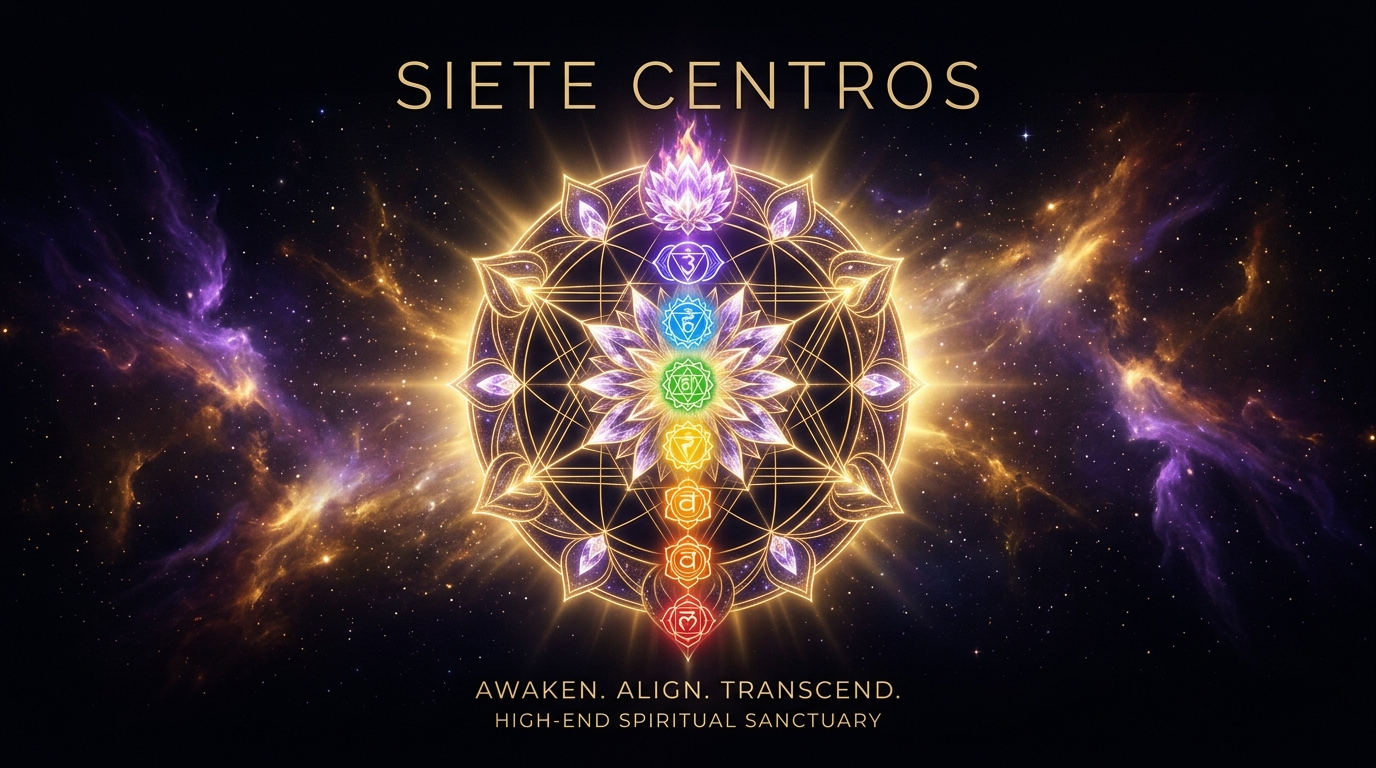
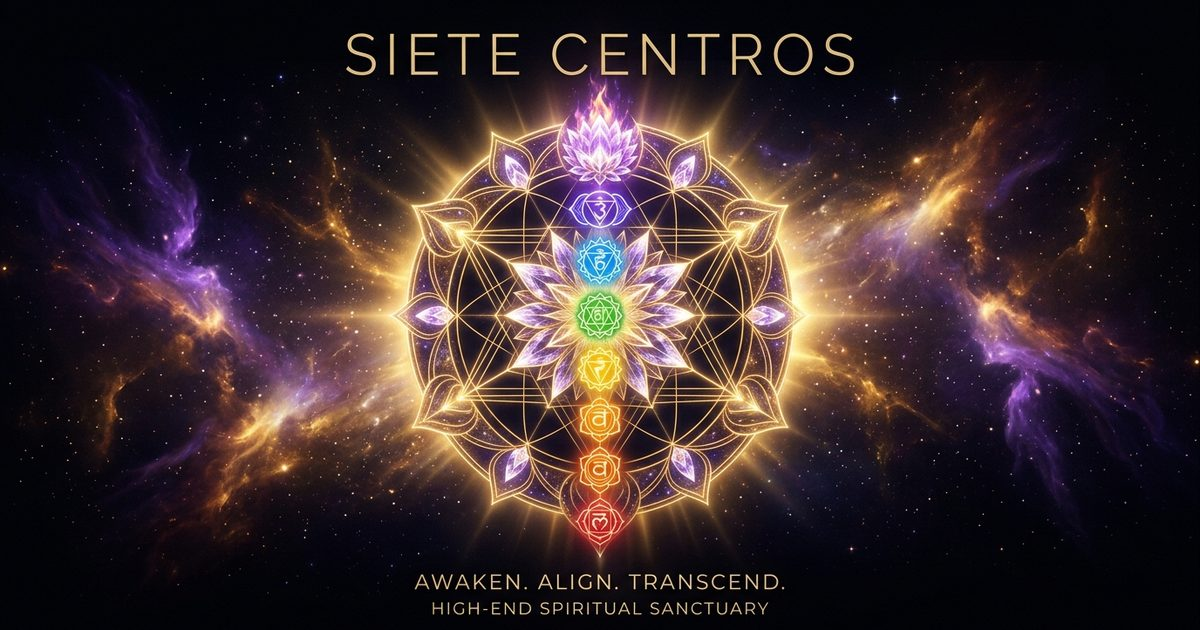
fix(og): optimize og-image to 132KB for WhatsApp crawler and add itemprop, image_src with ?v=2 cache buster

diff --git a/docs/retiros.html b/docs/retiros.html
@@ -6,13 +6,19 @@
   <title>Retiros de Inmersión & Conciencia 2026 — SIETE CENTROS</title>
   <meta name="description" content="Inmersiones de retiro de alta vibración en la naturaleza guiadas por Sofía. Tepoztlán, Valle de Bravo y Riviera Maya. Cupo limitado a 12 participantes.">
 
+  <!-- Microdata Fallback for WhatsApp & Google -->
+  <meta itemprop="name" content="Retiros de Inmersión & Silencio 2026 — SIETE CENTROS">
+  <meta itemprop="description" content="Inmersiones de varios días en reservas sagradas de la naturaleza. Ceremonias de cacao, silencio contemplativo, kriya matutino y breathwork somático.">
+  <meta itemprop="image" content="https://arcano3ai.github.io/Siete-Centros/images/og-siete-centros.jpg?v=2">
+  <link rel="image_src" href="https://arcano3ai.github.io/Siete-Centros/images/og-siete-centros.jpg?v=2">
+
   <!-- Open Graph / WhatsApp / Facebook / LinkedIn Card -->
   <meta property="og:type" content="website">
   <meta property="og:url" content="https://arcano3ai.github.io/Siete-Centros/retiros.html">
   <meta property="og:title" content="Retiros de Inmersión & Silencio 2026 — SIETE CENTROS">
   <meta property="og:description" content="Inmersiones de varios días en reservas sagradas de la naturaleza. Ceremonias de cacao, silencio contemplativo, kriya matutino y breathwork somático.">
-  <meta property="og:image" content="https://arcano3ai.github.io/Siete-Centros/images/og-siete-centros.jpg">
-  <meta property="og:image:secure_url" content="https://arcano3ai.github.io/Siete-Centros/images/og-siete-centros.jpg">
+  <meta property="og:image" content="https://arcano3ai.github.io/Siete-Centros/images/og-siete-centros.jpg?v=2">
+  <meta property="og:image:secure_url" content="https://arcano3ai.github.io/Siete-Centros/images/og-siete-centros.jpg?v=2">
   <meta property="og:image:type" content="image/jpeg">
   <meta property="og:image:width" content="1200">
   <meta property="og:image:height" content="630">
@@ -23,7 +29,7 @@
   <meta name="twitter:card" content="summary_large_image">
   <meta name="twitter:title" content="Retiros de Inmersión & Silencio 2026 — SIETE CENTROS">
   <meta name="twitter:description" content="Inmersiones de varios días en reservas sagradas de la naturaleza. Ceremonias de cacao, silencio y breathwork.">
-  <meta name="twitter:image" content="https://arcano3ai.github.io/Siete-Centros/images/og-siete-centros.jpg">
+  <meta name="twitter:image" content="https://arcano3ai.github.io/Siete-Centros/images/og-siete-centros.jpg?v=2">
 
   <!-- Favicon -->
   <link rel="icon" type="image/png" href="./assets/logo_siete_centros_luxury-CsJJWzyy.png">

diff --git a/retiros.html b/retiros.html
@@ -6,13 +6,19 @@
   <title>Retiros de Inmersión & Conciencia 2026 — SIETE CENTROS</title>
   <meta name="description" content="Inmersiones de retiro de alta vibración en la naturaleza guiadas por Sofía. Tepoztlán, Valle de Bravo y Riviera Maya. Cupo limitado a 12 participantes.">
 
+  <!-- Microdata Fallback for WhatsApp & Google -->
+  <meta itemprop="name" content="Retiros de Inmersión & Silencio 2026 — SIETE CENTROS">
+  <meta itemprop="description" content="Inmersiones de varios días en reservas sagradas de la naturaleza. Ceremonias de cacao, silencio contemplativo, kriya matutino y breathwork somático.">
+  <meta itemprop="image" content="https://arcano3ai.github.io/Siete-Centros/images/og-siete-centros.jpg?v=2">
+  <link rel="image_src" href="https://arcano3ai.github.io/Siete-Centros/images/og-siete-centros.jpg?v=2">
+
   <!-- Open Graph / WhatsApp / Facebook / LinkedIn Card -->
   <meta property="og:type" content="website">
   <meta property="og:url" content="https://arcano3ai.github.io/Siete-Centros/retiros.html">
   <meta property="og:title" content="Retiros de Inmersión & Silencio 2026 — SIETE CENTROS">
   <meta property="og:description" content="Inmersiones de varios días en reservas sagradas de la naturaleza. Ceremonias de cacao, silencio contemplativo, kriya matutino y breathwork somático.">
-  <meta property="og:image" content="https://arcano3ai.github.io/Siete-Centros/images/og-siete-centros.jpg">
-  <meta property="og:image:secure_url" content="https://arcano3ai.github.io/Siete-Centros/images/og-siete-centros.jpg">
+  <meta property="og:image" content="https://arcano3ai.github.io/Siete-Centros/images/og-siete-centros.jpg?v=2">
+  <meta property="og:image:secure_url" content="https://arcano3ai.github.io/Siete-Centros/images/og-siete-centros.jpg?v=2">
   <meta property="og:image:type" content="image/jpeg">
   <meta property="og:image:width" content="1200">
   <meta property="og:image:height" content="630">
@@ -23,7 +29,7 @@
   <meta name="twitter:card" content="summary_large_image">
   <meta name="twitter:title" content="Retiros de Inmersión & Silencio 2026 — SIETE CENTROS">
   <meta name="twitter:description" content="Inmersiones de varios días en reservas sagradas de la naturaleza. Ceremonias de cacao, silencio y breathwork.">
-  <meta name="twitter:image" content="https://arcano3ai.github.io/Siete-Centros/images/og-siete-centros.jpg">
+  <meta name="twitter:image" content="https://arcano3ai.github.io/Siete-Centros/images/og-siete-centros.jpg?v=2">
 
   <!-- Favicon -->
   <link rel="icon" type="image/png" href="./assets/logo_siete_centros_luxury-CsJJWzyy.png">

diff --git a/src/source-pages/retiros.html b/src/source-pages/retiros.html
@@ -6,13 +6,19 @@
   <title>Retiros de Inmersión & Conciencia 2026 — SIETE CENTROS</title>
   <meta name="description" content="Inmersiones de retiro de alta vibración en la naturaleza guiadas por Sofía. Tepoztlán, Valle de Bravo y Riviera Maya. Cupo limitado a 12 participantes.">
 
+  <!-- Microdata Fallback for WhatsApp & Google -->
+  <meta itemprop="name" content="Retiros de Inmersión & Silencio 2026 — SIETE CENTROS">
+  <meta itemprop="description" content="Inmersiones de varios días en reservas sagradas de la naturaleza. Ceremonias de cacao, silencio contemplativo, kriya matutino y breathwork somático.">
+  <meta itemprop="image" content="https://arcano3ai.github.io/Siete-Centros/images/og-siete-centros.jpg?v=2">
+  <link rel="image_src" href="https://arcano3ai.github.io/Siete-Centros/images/og-siete-centros.jpg?v=2">
+
   <!-- Open Graph / WhatsApp / Facebook / LinkedIn Card -->
   <meta property="og:type" content="website">
   <meta property="og:url" content="https://arcano3ai.github.io/Siete-Centros/retiros.html">
   <meta property="og:title" content="Retiros de Inmersión & Silencio 2026 — SIETE CENTROS">
   <meta property="og:description" content="Inmersiones de varios días en reservas sagradas de la naturaleza. Ceremonias de cacao, silencio contemplativo, kriya matutino y breathwork somático.">
-  <meta property="og:image" content="https://arcano3ai.github.io/Siete-Centros/images/og-siete-centros.jpg">
-  <meta property="og:image:secure_url" content="https://arcano3ai.github.io/Siete-Centros/images/og-siete-centros.jpg">
+  <meta property="og:image" content="https://arcano3ai.github.io/Siete-Centros/images/og-siete-centros.jpg?v=2">
+  <meta property="og:image:secure_url" content="https://arcano3ai.github.io/Siete-Centros/images/og-siete-centros.jpg?v=2">
   <meta property="og:image:type" content="image/jpeg">
   <meta property="og:image:width" content="1200">
   <meta property="og:image:height" content="630">
@@ -23,7 +29,7 @@
   <meta name="twitter:card" content="summary_large_image">
   <meta name="twitter:title" content="Retiros de Inmersión & Silencio 2026 — SIETE CENTROS">
   <meta name="twitter:description" content="Inmersiones de varios días en reservas sagradas de la naturaleza. Ceremonias de cacao, silencio y breathwork.">
-  <meta name="twitter:image" content="https://arcano3ai.github.io/Siete-Centros/images/og-siete-centros.jpg">
+  <meta name="twitter:image" content="https://arcano3ai.github.io/Siete-Centros/images/og-siete-centros.jpg?v=2">
 
   <!-- Favicon -->
   <link rel="icon" type="image/png" href="./images/logo_siete_centros_luxury.png">

diff --git a/docs/index.html b/docs/index.html
@@ -8,13 +8,19 @@
   <meta name="keywords" content="siete centros, chakras, tantra, kriya, breathwork, meditación, presencia somática, Sofía terapeuta">
   <meta name="author" content="SIETE CENTROS">
 
+  <!-- Microdata Fallback for WhatsApp & Google -->
+  <meta itemprop="name" content="SIETE CENTROS — Escuela de Conciencia & Experiencias Holísticas">
+  <meta itemprop="description" content="Un viaje vertical hacia tu interior a través de los siete centros de conciencia. Tantra, kriya yoga, breathwork, presencia somática y retiros sagrados.">
+  <meta itemprop="image" content="https://arcano3ai.github.io/Siete-Centros/images/og-siete-centros.jpg?v=2">
+  <link rel="image_src" href="https://arcano3ai.github.io/Siete-Centros/images/og-siete-centros.jpg?v=2">
+
   <!-- Open Graph / WhatsApp / Facebook / LinkedIn Card -->
   <meta property="og:type" content="website">
   <meta property="og:url" content="https://arcano3ai.github.io/Siete-Centros/">
   <meta property="og:title" content="SIETE CENTROS — Escuela de Conciencia & Experiencias Holísticas">
   <meta property="og:description" content="Un viaje vertical hacia tu interior a través de los siete centros de conciencia. Tantra, kriya yoga, breathwork, presencia somática y retiros sagrados.">
-  <meta property="og:image" content="https://arcano3ai.github.io/Siete-Centros/images/og-siete-centros.jpg">
-  <meta property="og:image:secure_url" content="https://arcano3ai.github.io/Siete-Centros/images/og-siete-centros.jpg">
+  <meta property="og:image" content="https://arcano3ai.github.io/Siete-Centros/images/og-siete-centros.jpg?v=2">
+  <meta property="og:image:secure_url" content="https://arcano3ai.github.io/Siete-Centros/images/og-siete-centros.jpg?v=2">
   <meta property="og:image:type" content="image/jpeg">
   <meta property="og:image:width" content="1200">
   <meta property="og:image:height" content="630">
@@ -25,7 +31,7 @@
   <meta name="twitter:card" content="summary_large_image">
   <meta name="twitter:title" content="SIETE CENTROS — Escuela de Conciencia & Experiencias Holísticas">
   <meta name="twitter:description" content="Un viaje vertical hacia tu interior a través de los siete centros de conciencia. Tantra, kriya yoga, breathwork y retiros sagrados.">
-  <meta name="twitter:image" content="https://arcano3ai.github.io/Siete-Centros/images/og-siete-centros.jpg">
+  <meta name="twitter:image" content="https://arcano3ai.github.io/Siete-Centros/images/og-siete-centros.jpg?v=2">
 
   <!-- Favicon -->
   <link rel="icon" type="image/png" href="./assets/logo_siete_centros_luxury-CsJJWzyy.png">

diff --git a/index.html b/index.html
@@ -8,13 +8,19 @@
   <meta name="keywords" content="siete centros, chakras, tantra, kriya, breathwork, meditación, presencia somática, Sofía terapeuta">
   <meta name="author" content="SIETE CENTROS">
 
+  <!-- Microdata Fallback for WhatsApp & Google -->
+  <meta itemprop="name" content="SIETE CENTROS — Escuela de Conciencia & Experiencias Holísticas">
+  <meta itemprop="description" content="Un viaje vertical hacia tu interior a través de los siete centros de conciencia. Tantra, kriya yoga, breathwork, presencia somática y retiros sagrados.">
+  <meta itemprop="image" content="https://arcano3ai.github.io/Siete-Centros/images/og-siete-centros.jpg?v=2">
+  <link rel="image_src" href="https://arcano3ai.github.io/Siete-Centros/images/og-siete-centros.jpg?v=2">
+
   <!-- Open Graph / WhatsApp / Facebook / LinkedIn Card -->
   <meta property="og:type" content="website">
   <meta property="og:url" content="https://arcano3ai.github.io/Siete-Centros/">
   <meta property="og:title" content="SIETE CENTROS — Escuela de Conciencia & Experiencias Holísticas">
   <meta property="og:description" content="Un viaje vertical hacia tu interior a través de los siete centros de conciencia. Tantra, kriya yoga, breathwork, presencia somática y retiros sagrados.">
-  <meta property="og:image" content="https://arcano3ai.github.io/Siete-Centros/images/og-siete-centros.jpg">
-  <meta property="og:image:secure_url" content="https://arcano3ai.github.io/Siete-Centros/images/og-siete-centros.jpg">
+  <meta property="og:image" content="https://arcano3ai.github.io/Siete-Centros/images/og-siete-centros.jpg?v=2">
+  <meta property="og:image:secure_url" content="https://arcano3ai.github.io/Siete-Centros/images/og-siete-centros.jpg?v=2">
   <meta property="og:image:type" content="image/jpeg">
   <meta property="og:image:width" content="1200">
   <meta property="og:image:height" content="630">
@@ -25,7 +31,7 @@
   <meta name="twitter:card" content="summary_large_image">
   <meta name="twitter:title" content="SIETE CENTROS — Escuela de Conciencia & Experiencias Holísticas">
   <meta name="twitter:description" content="Un viaje vertical hacia tu interior a través de los siete centros de conciencia. Tantra, kriya yoga, breathwork y retiros sagrados.">
-  <meta name="twitter:image" content="https://arcano3ai.github.io/Siete-Centros/images/og-siete-centros.jpg">
+  <meta name="twitter:image" content="https://arcano3ai.github.io/Siete-Centros/images/og-siete-centros.jpg?v=2">
 
   <!-- Favicon -->
   <link rel="icon" type="image/png" href="./assets/logo_siete_centros_luxury-CsJJWzyy.png">

diff --git a/breathwork.html b/breathwork.html
@@ -6,13 +6,19 @@
   <title>Breathwork & Coherencia Cardíaca — SIETE CENTROS</title>
   <meta name="description" content="Inmersión somática en Breathwork guiado por Sofía. Calibra tu frecuencia a 0.1 Hz, disuelve el cortisol y accede a estados expandidos de conciencia.">
 
+  <!-- Microdata Fallback for WhatsApp & Google -->
+  <meta itemprop="name" content="Breathwork & Coherencia Cardíaca — SIETE CENTROS">
+  <meta itemprop="description" content="Inmersión somática en Breathwork guiado por Sofía. Calibra tu frecuencia a 0.1 Hz, disuelve el cortisol y accede a estados expandidos de conciencia.">
+  <meta itemprop="image" content="https://arcano3ai.github.io/Siete-Centros/images/og-siete-centros.jpg?v=2">
+  <link rel="image_src" href="https://arcano3ai.github.io/Siete-Centros/images/og-siete-centros.jpg?v=2">
+
   <!-- Open Graph / WhatsApp / Facebook / LinkedIn Card -->
   <meta property="og:type" content="website">
   <meta property="og:url" content="https://arcano3ai.github.io/Siete-Centros/breathwork.html">
   <meta property="og:title" content="Breathwork & Coherencia Cardíaca — SIETE CENTROS">
   <meta property="og:description" content="Inmersión somática en Breathwork guiado por Sofía. Calibra tu frecuencia a 0.1 Hz, disuelve el cortisol y accede a estados expandidos de conciencia.">
-  <meta property="og:image" content="https://arcano3ai.github.io/Siete-Centros/images/og-siete-centros.jpg">
-  <meta property="og:image:secure_url" content="https://arcano3ai.github.io/Siete-Centros/images/og-siete-centros.jpg">
+  <meta property="og:image" content="https://arcano3ai.github.io/Siete-Centros/images/og-siete-centros.jpg?v=2">
+  <meta property="og:image:secure_url" content="https://arcano3ai.github.io/Siete-Centros/images/og-siete-centros.jpg?v=2">
   <meta property="og:image:type" content="image/jpeg">
   <meta property="og:image:width" content="1200">
   <meta property="og:image:height" content="630">
@@ -23,7 +29,7 @@
   <meta name="twitter:card" content="summary_large_image">
   <meta name="twitter:title" content="Breathwork & Coherencia Cardíaca — SIETE CENTROS">
   <meta name="twitter:description" content="Inmersión somática en Breathwork guiado por Sofía. Calibra tu frecuencia a 0.1 Hz.">
-  <meta name="twitter:image" content="https://arcano3ai.github.io/Siete-Centros/images/og-siete-centros.jpg">
+  <meta name="twitter:image" content="https://arcano3ai.github.io/Siete-Centros/images/og-siete-centros.jpg?v=2">
 
   <!-- Favicon -->
   <link rel="icon" type="image/png" href="./assets/logo_siete_centros_luxury-CsJJWzyy.png">

diff --git a/docs/breathwork.html b/docs/breathwork.html
@@ -6,13 +6,19 @@
   <title>Breathwork & Coherencia Cardíaca — SIETE CENTROS</title>
   <meta name="description" content="Inmersión somática en Breathwork guiado por Sofía. Calibra tu frecuencia a 0.1 Hz, disuelve el cortisol y accede a estados expandidos de conciencia.">
 
+  <!-- Microdata Fallback for WhatsApp & Google -->
+  <meta itemprop="name" content="Breathwork & Coherencia Cardíaca — SIETE CENTROS">
+  <meta itemprop="description" content="Inmersión somática en Breathwork guiado por Sofía. Calibra tu frecuencia a 0.1 Hz, disuelve el cortisol y accede a estados expandidos de conciencia.">
+  <meta itemprop="image" content="https://arcano3ai.github.io/Siete-Centros/images/og-siete-centros.jpg?v=2">
+  <link rel="image_src" href="https://arcano3ai.github.io/Siete-Centros/images/og-siete-centros.jpg?v=2">
+
   <!-- Open Graph / WhatsApp / Facebook / LinkedIn Card -->
   <meta property="og:type" content="website">
   <meta property="og:url" content="https://arcano3ai.github.io/Siete-Centros/breathwork.html">
   <meta property="og:title" content="Breathwork & Coherencia Cardíaca — SIETE CENTROS">
   <meta property="og:description" content="Inmersión somática en Breathwork guiado por Sofía. Calibra tu frecuencia a 0.1 Hz, disuelve el cortisol y accede a estados expandidos de conciencia.">
-  <meta property="og:image" content="https://arcano3ai.github.io/Siete-Centros/images/og-siete-centros.jpg">
-  <meta property="og:image:secure_url" content="https://arcano3ai.github.io/Siete-Centros/images/og-siete-centros.jpg">
+  <meta property="og:image" content="https://arcano3ai.github.io/Siete-Centros/images/og-siete-centros.jpg?v=2">
+  <meta property="og:image:secure_url" content="https://arcano3ai.github.io/Siete-Centros/images/og-siete-centros.jpg?v=2">
   <meta property="og:image:type" content="image/jpeg">
   <meta property="og:image:width" content="1200">
   <meta property="og:image:height" content="630">
@@ -23,7 +29,7 @@
   <meta name="twitter:card" content="summary_large_image">
   <meta name="twitter:title" content="Breathwork & Coherencia Cardíaca — SIETE CENTROS">
   <meta name="twitter:description" content="Inmersión somática en Breathwork guiado por Sofía. Calibra tu frecuencia a 0.1 Hz.">
-  <meta name="twitter:image" content="https://arcano3ai.github.io/Siete-Centros/images/og-siete-centros.jpg">
+  <meta name="twitter:image" content="https://arcano3ai.github.io/Siete-Centros/images/og-siete-centros.jpg?v=2">
 
   <!-- Favicon -->
   <link rel="icon" type="image/png" href="./assets/logo_siete_centros_luxury-CsJJWzyy.png">

diff --git a/src/source-pages/index.html b/src/source-pages/index.html
@@ -8,13 +8,19 @@
   <meta name="keywords" content="siete centros, chakras, tantra, kriya, breathwork, meditación, presencia somática, Sofía terapeuta">
   <meta name="author" content="SIETE CENTROS">
 
+  <!-- Microdata Fallback for WhatsApp & Google -->
+  <meta itemprop="name" content="SIETE CENTROS — Escuela de Conciencia & Experiencias Holísticas">
+  <meta itemprop="description" content="Un viaje vertical hacia tu interior a través de los siete centros de conciencia. Tantra, kriya yoga, breathwork, presencia somática y retiros sagrados.">
+  <meta itemprop="image" content="https://arcano3ai.github.io/Siete-Centros/images/og-siete-centros.jpg?v=2">
+  <link rel="image_src" href="https://arcano3ai.github.io/Siete-Centros/images/og-siete-centros.jpg?v=2">
+
   <!-- Open Graph / WhatsApp / Facebook / LinkedIn Card -->
   <meta property="og:type" content="website">
   <meta property="og:url" content="https://arcano3ai.github.io/Siete-Centros/">
   <meta property="og:title" content="SIETE CENTROS — Escuela de Conciencia & Experiencias Holísticas">
   <meta property="og:description" content="Un viaje vertical hacia tu interior a través de los siete centros de conciencia. Tantra, kriya yoga, breathwork, presencia somática y retiros sagrados.">
-  <meta property="og:image" content="https://arcano3ai.github.io/Siete-Centros/images/og-siete-centros.jpg">
-  <meta property="og:image:secure_url" content="https://arcano3ai.github.io/Siete-Centros/images/og-siete-centros.jpg">
+  <meta property="og:image" content="https://arcano3ai.github.io/Siete-Centros/images/og-siete-centros.jpg?v=2">
+  <meta property="og:image:secure_url" content="https://arcano3ai.github.io/Siete-Centros/images/og-siete-centros.jpg?v=2">
   <meta property="og:image:type" content="image/jpeg">
   <meta property="og:image:width" content="1200">
   <meta property="og:image:height" content="630">
@@ -25,7 +31,7 @@
   <meta name="twitter:card" content="summary_large_image">
   <meta name="twitter:title" content="SIETE CENTROS — Escuela de Conciencia & Experiencias Holísticas">
   <meta name="twitter:description" content="Un viaje vertical hacia tu interior a través de los siete centros de conciencia. Tantra, kriya yoga, breathwork y retiros sagrados.">
-  <meta name="twitter:image" content="https://arcano3ai.github.io/Siete-Centros/images/og-siete-centros.jpg">
+  <meta name="twitter:image" content="https://arcano3ai.github.io/Siete-Centros/images/og-siete-centros.jpg?v=2">
 
   <!-- Favicon -->
   <link rel="icon" type="image/png" href="./images/logo_siete_centros_luxury.png">

diff --git a/src/source-pages/breathwork.html b/src/source-pages/breathwork.html
@@ -6,13 +6,19 @@
   <title>Breathwork & Coherencia Cardíaca — SIETE CENTROS</title>
   <meta name="description" content="Inmersión somática en Breathwork guiado por Sofía. Calibra tu frecuencia a 0.1 Hz, disuelve el cortisol y accede a estados expandidos de conciencia.">
 
+  <!-- Microdata Fallback for WhatsApp & Google -->
+  <meta itemprop="name" content="Breathwork & Coherencia Cardíaca — SIETE CENTROS">
+  <meta itemprop="description" content="Inmersión somática en Breathwork guiado por Sofía. Calibra tu frecuencia a 0.1 Hz, disuelve el cortisol y accede a estados expandidos de conciencia.">
+  <meta itemprop="image" content="https://arcano3ai.github.io/Siete-Centros/images/og-siete-centros.jpg?v=2">
+  <link rel="image_src" href="https://arcano3ai.github.io/Siete-Centros/images/og-siete-centros.jpg?v=2">
+
   <!-- Open Graph / WhatsApp / Facebook / LinkedIn Card -->
   <meta property="og:type" content="website">
   <meta property="og:url" content="https://arcano3ai.github.io/Siete-Centros/breathwork.html">
   <meta property="og:title" content="Breathwork & Coherencia Cardíaca — SIETE CENTROS">
   <meta property="og:description" content="Inmersión somática en Breathwork guiado por Sofía. Calibra tu frecuencia a 0.1 Hz, disuelve el cortisol y accede a estados expandidos de conciencia.">
-  <meta property="og:image" content="https://arcano3ai.github.io/Siete-Centros/images/og-siete-centros.jpg">
-  <meta property="og:image:secure_url" content="https://arcano3ai.github.io/Siete-Centros/images/og-siete-centros.jpg">
+  <meta property="og:image" content="https://arcano3ai.github.io/Siete-Centros/images/og-siete-centros.jpg?v=2">
+  <meta property="og:image:secure_url" content="https://arcano3ai.github.io/Siete-Centros/images/og-siete-centros.jpg?v=2">
   <meta property="og:image:type" content="image/jpeg">
   <meta property="og:image:width" content="1200">
   <meta property="og:image:height" content="630">
@@ -23,7 +29,7 @@
   <meta name="twitter:card" content="summary_large_image">
   <meta name="twitter:title" content="Breathwork & Coherencia Cardíaca — SIETE CENTROS">
   <meta name="twitter:description" content="Inmersión somática en Breathwork guiado por Sofía. Calibra tu frecuencia a 0.1 Hz.">
-  <meta name="twitter:image" content="https://arcano3ai.github.io/Siete-Centros/images/og-siete-centros.jpg">
+  <meta name="twitter:image" content="https://arcano3ai.github.io/Siete-Centros/images/og-siete-centros.jpg?v=2">
 
   <!-- Favicon -->
   <link rel="icon" type="image/png" href="./images/logo_siete_centros_luxury.png">

diff --git a/circulos-de-palabra.html b/circulos-de-palabra.html
@@ -6,13 +6,19 @@
   <title>Círculos de Palabra & Fuego Sagrado — SIETE CENTROS</title>
   <meta name="description" content="Rondas sagradas de palabra y presencia guiadas por Sofía. El fuego como testigo, la escucha sin juicio y el poder curativo de la verdad compartida.">
 
+  <!-- Microdata Fallback for WhatsApp & Google -->
+  <meta itemprop="name" content="Círculos de Palabra Sagrada — SIETE CENTROS">
+  <meta itemprop="description" content="Ceremonia secular inspirada en los consejos ancestrales. Escucha empática, presencia activa y tejido de confianza en torno al fuego sagrado.">
+  <meta itemprop="image" content="https://arcano3ai.github.io/Siete-Centros/images/og-siete-centros.jpg?v=2">
+  <link rel="image_src" href="https://arcano3ai.github.io/Siete-Centros/images/og-siete-centros.jpg?v=2">
+
   <!-- Open Graph / WhatsApp / Facebook / LinkedIn Card -->
   <meta property="og:type" content="website">
   <meta property="og:url" content="https://arcano3ai.github.io/Siete-Centros/circulos-de-palabra.html">
   <meta property="og:title" content="Círculos de Palabra Sagrada — SIETE CENTROS">
   <meta property="og:description" content="Ceremonia secular inspirada en los consejos ancestrales. Escucha empática, presencia activa y tejido de confianza en torno al fuego sagrado.">
-  <meta property="og:image" content="https://arcano3ai.github.io/Siete-Centros/images/og-siete-centros.jpg">
-  <meta property="og:image:secure_url" content="https://arcano3ai.github.io/Siete-Centros/images/og-siete-centros.jpg">
+  <meta property="og:image" content="https://arcano3ai.github.io/Siete-Centros/images/og-siete-centros.jpg?v=2">
+  <meta property="og:image:secure_url" content="https://arcano3ai.github.io/Siete-Centros/images/og-siete-centros.jpg?v=2">
   <meta property="og:image:type" content="image/jpeg">
   <meta property="og:image:width" content="1200">
   <meta property="og:image:height" content="630">
@@ -23,7 +29,7 @@
   <meta name="twitter:card" content="summary_large_image">
   <meta name="twitter:title" content="Círculos de Palabra Sagrada — SIETE CENTROS">
   <meta name="twitter:description" content="Ceremonia secular inspirada en los consejos ancestrales. Escucha empática y presencia activa.">
-  <meta name="twitter:image" content="https://arcano3ai.github.io/Siete-Centros/images/og-siete-centros.jpg">
+  <meta name="twitter:image" content="https://arcano3ai.github.io/Siete-Centros/images/og-siete-centros.jpg?v=2">
 
   <!-- Favicon -->
   <link rel="icon" type="image/png" href="./assets/logo_siete_centros_luxury-CsJJWzyy.png">

diff --git a/docs/circulos-de-palabra.html b/docs/circulos-de-palabra.html
@@ -6,13 +6,19 @@
   <title>Círculos de Palabra & Fuego Sagrado — SIETE CENTROS</title>
   <meta name="description" content="Rondas sagradas de palabra y presencia guiadas por Sofía. El fuego como testigo, la escucha sin juicio y el poder curativo de la verdad compartida.">
 
+  <!-- Microdata Fallback for WhatsApp & Google -->
+  <meta itemprop="name" content="Círculos de Palabra Sagrada — SIETE CENTROS">
+  <meta itemprop="description" content="Ceremonia secular inspirada en los consejos ancestrales. Escucha empática, presencia activa y tejido de confianza en torno al fuego sagrado.">
+  <meta itemprop="image" content="https://arcano3ai.github.io/Siete-Centros/images/og-siete-centros.jpg?v=2">
+  <link rel="image_src" href="https://arcano3ai.github.io/Siete-Centros/images/og-siete-centros.jpg?v=2">
+
   <!-- Open Graph / WhatsApp / Facebook / LinkedIn Card -->
   <meta property="og:type" content="website">
   <meta property="og:url" content="https://arcano3ai.github.io/Siete-Centros/circulos-de-palabra.html">
   <meta property="og:title" content="Círculos de Palabra Sagrada — SIETE CENTROS">
   <meta property="og:description" content="Ceremonia secular inspirada en los consejos ancestrales. Escucha empática, presencia activa y tejido de confianza en torno al fuego sagrado.">
-  <meta property="og:image" content="https://arcano3ai.github.io/Siete-Centros/images/og-siete-centros.jpg">
-  <meta property="og:image:secure_url" content="https://arcano3ai.github.io/Siete-Centros/images/og-siete-centros.jpg">
+  <meta property="og:image" content="https://arcano3ai.github.io/Siete-Centros/images/og-siete-centros.jpg?v=2">
+  <meta property="og:image:secure_url" content="https://arcano3ai.github.io/Siete-Centros/images/og-siete-centros.jpg?v=2">
   <meta property="og:image:type" content="image/jpeg">
   <meta property="og:image:width" content="1200">
   <meta property="og:image:height" content="630">
@@ -23,7 +29,7 @@
   <meta name="twitter:card" content="summary_large_image">
   <meta name="twitter:title" content="Círculos de Palabra Sagrada — SIETE CENTROS">
   <meta name="twitter:description" content="Ceremonia secular inspirada en los consejos ancestrales. Escucha empática y presencia activa.">
-  <meta name="twitter:image" content="https://arcano3ai.github.io/Siete-Centros/images/og-siete-centros.jpg">
+  <meta name="twitter:image" content="https://arcano3ai.github.io/Siete-Centros/images/og-siete-centros.jpg?v=2">
 
   <!-- Favicon -->
   <link rel="icon" type="image/png" href="./assets/logo_siete_centros_luxury-CsJJWzyy.png">

diff --git a/src/source-pages/circulos-de-palabra.html b/src/source-pages/circulos-de-palabra.html
@@ -6,13 +6,19 @@
   <title>Círculos de Palabra & Fuego Sagrado — SIETE CENTROS</title>
   <meta name="description" content="Rondas sagradas de palabra y presencia guiadas por Sofía. El fuego como testigo, la escucha sin juicio y el poder curativo de la verdad compartida.">
 
+  <!-- Microdata Fallback for WhatsApp & Google -->
+  <meta itemprop="name" content="Círculos de Palabra Sagrada — SIETE CENTROS">
+  <meta itemprop="description" content="Ceremonia secular inspirada en los consejos ancestrales. Escucha empática, presencia activa y tejido de confianza en torno al fuego sagrado.">
+  <meta itemprop="image" content="https://arcano3ai.github.io/Siete-Centros/images/og-siete-centros.jpg?v=2">
+  <link rel="image_src" href="https://arcano3ai.github.io/Siete-Centros/images/og-siete-centros.jpg?v=2">
+
   <!-- Open Graph / WhatsApp / Facebook / LinkedIn Card -->
   <meta property="og:type" content="website">
   <meta property="og:url" content="https://arcano3ai.github.io/Siete-Centros/circulos-de-palabra.html">
   <meta property="og:title" content="Círculos de Palabra Sagrada — SIETE CENTROS">
   <meta property="og:description" content="Ceremonia secular inspirada en los consejos ancestrales. Escucha empática, presencia activa y tejido de confianza en torno al fuego sagrado.">
-  <meta property="og:image" content="https://arcano3ai.github.io/Siete-Centros/images/og-siete-centros.jpg">
-  <meta property="og:image:secure_url" content="https://arcano3ai.github.io/Siete-Centros/images/og-siete-centros.jpg">
+  <meta property="og:image" content="https://arcano3ai.github.io/Siete-Centros/images/og-siete-centros.jpg?v=2">
+  <meta property="og:image:secure_url" content="https://arcano3ai.github.io/Siete-Centros/images/og-siete-centros.jpg?v=2">
   <meta property="og:image:type" content="image/jpeg">
   <meta property="og:image:width" content="1200">
   <meta property="og:image:height" content="630">
@@ -23,7 +29,7 @@
   <meta name="twitter:card" content="summary_large_image">
   <meta name="twitter:title" content="Círculos de Palabra Sagrada — SIETE CENTROS">
   <meta name="twitter:description" content="Ceremonia secular inspirada en los consejos ancestrales. Escucha empática y presencia activa.">
-  <meta name="twitter:image" content="https://arcano3ai.github.io/Siete-Centros/images/og-siete-centros.jpg">
+  <meta name="twitter:image" content="https://arcano3ai.github.io/Siete-Centros/images/og-siete-centros.jpg?v=2">
 
   <!-- Favicon -->
   <link rel="icon" type="image/png" href="./images/logo_siete_centros_luxury.png">
